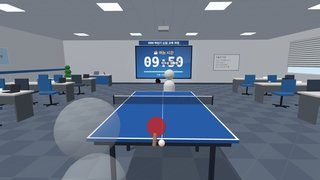
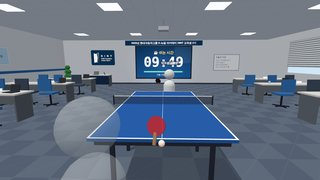
교육장에 HINT 꾸밈: 'K-뉴딜 아카데미 HINT 교육생 2기' 띠, HINT 로고·포스터, 남색 화면
Claude-Session: https://claude.ai/code/session_01JohB2zgj8E5rq1U69enmxb

diff --git a/src/arena-training.js b/src/arena-training.js
@@ -6,6 +6,14 @@ import { seeded, canvasTex, std, addBox, textTex, glowSprite } from './arena-kit
 
 const RX = 7.5, RZ = 9, RH = 3.2;
 const BREAK = 600; // 쉬는 시간 10분 (초)
+const NAVY = '#062a4d'; // HINT 로고 색
+// HINT 로고·포스터 그림 (public/arenas/, 사용자가 준 그림)
+const IMG = (import.meta.env?.BASE_URL || '/') + 'arenas/';
+function imgMat(file, transparent = false) {
+  const t = new THREE.TextureLoader().load(IMG + file);
+  t.colorSpace = THREE.SRGBColorSpace; t.anisotropy = 8;
+  return new THREE.MeshBasicMaterial({ map: t, transparent, alphaTest: transparent ? 0.05 : 0 });
+}
 
 function chair(col) {
   const g = new THREE.Group(), k = std(0x30343b, { metalness: 0.5, roughness: 0.4 }), c = std(col);
@@ -53,7 +61,7 @@ export function buildTraining() {
   let shown = -1;
   const drawTimer = (left) => {
     const m = Math.floor(left / 60), s = left % 60;
-    const gr = cg.createLinearGradient(0, 0, 0, H); gr.addColorStop(0, '#1d3f73'); gr.addColorStop(1, '#2f6fb0');
+    const gr = cg.createLinearGradient(0, 0, 0, H); gr.addColorStop(0, NAVY); gr.addColorStop(1, '#0f4a85');
     cg.fillStyle = gr; cg.fillRect(0, 0, W, H);
     cg.fillStyle = 'rgba(255,255,255,0.08)'; cg.beginPath(); cg.arc(W - 90, 80, 220, 0, 7); cg.fill();
     cg.textAlign = 'center'; cg.textBaseline = 'middle';
@@ -78,7 +86,7 @@ export function buildTraining() {
   // 강사 탁자 + 노트북 + 마이크
   const podium = new THREE.Group();
   addBox(podium, 1.6, 0.05, 0.7, std(0xdedede), 0, 0.75, 0);
-  addBox(podium, 1.56, 0.6, 0.04, std(0x2f6fb0), 0, 0.45, 0.32);
+  addBox(podium, 1.56, 0.6, 0.04, std(0x062a4d), 0, 0.45, 0.32);
   for (const x of [-0.75, 0.75]) addBox(podium, 0.04, 0.74, 0.66, std(0x8a929b, { metalness: 0.5 }), x, 0.37, 0);
   addBox(podium, 0.34, 0.02, 0.24, std(0x9aa0a6, { metalness: 0.6 }), -0.2, 0.785, 0);
   const lap = addBox(podium, 0.34, 0.22, 0.01, std(0x9aa0a6, { metalness: 0.6 }), -0.2, 0.89, -0.12); lap.rotation.x = -0.25;
@@ -95,8 +103,11 @@ export function buildTraining() {
   wb.position.set(4.6, 1.6, -RZ + 0.12); root.add(wb);
   addBox(root, 1.86, 1.16, 0.03, std(0xb8bec4, { metalness: 0.5 }), 4.6, 1.6, -RZ + 0.1);
   addBox(root, 1.8, 0.04, 0.1, std(0xb8bec4), 4.6, 1.02, -RZ + 0.16);
-  const banner = new THREE.Mesh(new THREE.PlaneGeometry(4.0, 0.36), new THREE.MeshBasicMaterial({ map: textTex('2026 하반기 신입 교육 과정', { w: 1024, h: 92, bg: '#1d3f73', color: '#ffffff', font: 'bold 52px sans-serif' }) }));
-  banner.position.set(0, 3.0, -RZ + 0.12); banner.scale.setScalar(0.9); root.add(banner);
+  const banner = new THREE.Mesh(new THREE.PlaneGeometry(5.6, 0.34), new THREE.MeshBasicMaterial({ map: textTex('2026년 현대자동차그룹 K-뉴딜 아카데미 HINT 교육생 2기', { w: 1600, h: 98, bg: NAVY, color: '#ffffff', font: 'bold 52px sans-serif' }) }));
+  banner.position.set(0, 2.99, -RZ + 0.12); root.add(banner);
+  // HINT 로고 (강사 탁자 위 벽)
+  const logo = new THREE.Mesh(new THREE.PlaneGeometry(1.75, 1.09), imgMat('hint-logo.png', true));
+  logo.position.set(-4.5, 1.95, -RZ + 0.12); root.add(logo);
 
   // ---------- 양옆: 앞(-z)을 보고 줄지어 놓인 긴 책상 + 의자 ----------
   const deskTop = std(0xeae6df), deskLeg = std(0x8a929b, { metalness: 0.5 });
@@ -147,8 +158,12 @@ export function buildTraining() {
   door.position.set(4.6, 0, RZ - 0.1); root.add(door);
   const exitS = new THREE.Mesh(new THREE.PlaneGeometry(0.5, 0.18), new THREE.MeshBasicMaterial({ map: textTex('🚪 비상구', { w: 256, h: 92, bg: '#14a44d', color: '#ffffff', font: 'bold 46px sans-serif' }) }));
   exitS.rotation.y = Math.PI; exitS.position.set(4.6, 2.5, RZ - 0.12); exitS.userData.noFocus = true; root.add(exitS);
-  const poster = new THREE.Mesh(new THREE.PlaneGeometry(1.4, 0.9), new THREE.MeshLambertMaterial({ map: textTex(['함께 성장하는', '우리 🌱'], { w: 512, h: 330, bg: '#fff6dc', color: '#2b3a4a', border: '#f2c230', font: 'bold 58px sans-serif' }) }));
-  poster.rotation.y = Math.PI; poster.position.set(2.0, 1.8, RZ - 0.12); root.add(poster);
+  // HINT 포스터 (액자)
+  const poster = new THREE.Mesh(new THREE.PlaneGeometry(1.68, 1.2), imgMat('hint-poster.jpg'));
+  poster.rotation.y = Math.PI; poster.position.set(2.0, 1.75, RZ - 0.14); root.add(poster);
+  addBox(root, 1.78, 1.3, 0.04, std(0xd0d4d8, { metalness: 0.5 }), 2.0, 1.75, RZ - 0.11);
+  const plogo = new THREE.Mesh(new THREE.PlaneGeometry(0.97, 0.6), imgMat('hint-logo.png', true));
+  plogo.rotation.y = Math.PI; plogo.position.set(-4.6, 1.6, RZ - 0.12); root.add(plogo);
   const clock = new THREE.Mesh(new THREE.CircleGeometry(0.22, 32), new THREE.MeshBasicMaterial({ color: 0xffffff }));
   clock.rotation.y = Math.PI; clock.position.set(-4.6, 2.5, RZ - 0.12); root.add(clock);
 

diff --git a/docs/dev/arenas.md b/docs/dev/arenas.md
@@ -28,6 +28,6 @@
 - '09시' 시리즈(출근길·퇴근길·소풍길)는 사용자의 다른 게임 '09시까지 출근하세요'(snow15700-cyber/until09_new, 공개 저장소)와 **아주 잘 맞아야** 한다. 그 게임의 `js/06-scene.js`(도시·은행나무·자연 배경)·`js/07-car-models.js`(차)를 참고해 같은 모양·색으로. 출근길은 탁구대 옆으로 4차선 도로(양 팀 모두 차가 보이게).
 - **일반 3종 (test, SQL `20_common_backgrounds.sql` 실행 필요)**: 사용자 요청(11/18) — 고급보다 단순하게, 체육관 정도 품질. `bg_classroom|training|parking`(grade common, 500코인), 시안 주소 `?bg=classroom|training|parking`, 목록 그림 `public/arenas/<id>.jpg`.
   - 교실 `arena-classroom.js`: -z 칠판('오늘은 탁구 수업 🏓', 11월 18일·주번)·급훈 '준비하시고, 스매시!'·태극기·시계·교탁·교사 책상, +z 게시판·색 사물함, +x 운동장 창문(커튼 살랑), -x 복도 미닫이문·'3학년 2반'. 책상은 네 구석으로 밀어 두고 의자를 거꾸로 올림. 천장 형광등·선풍기(돎).
-  - 교육장 `arena-training.js`: -z 큰 화면 '☕ 쉬는 시간' **10:00 타이머가 진짜로 1초씩 줄어듦**(0이 되면 다시 10:00, 1분 남으면 빨간 막대 + '곧 수업 시작해요!'). 화면은 캔버스를 1초마다 다시 그려서 `noBake`. 양옆 앞을 보는 긴 책상 6줄 × 2(노트북·교재·물병·종이컵, 파란 바퀴 의자), +z 다과 탁자·정수기·비상구 문, +x 블라인드 창, 강사 탁자·화이트보드·천장 프로젝터.
+  - 교육장 `arena-training.js`: **HINT 꾸밈(사용자 요청 11/18)**: 화면 위 띠 '2026년 현대자동차그룹 K-뉴딜 아카데미 HINT 교육생 2기', 강사 탁자 위 벽·뒷벽에 HINT 로고(`public/arenas/hint-logo.png`), 뒷벽 액자에 HINT 포스터(`hint-poster.jpg`, 사용자가 준 그림에서 QR만 지움), 타이머 화면·강사 탁자는 HINT 남색 `#062a4d`. -z 큰 화면 '☕ 쉬는 시간' **10:00 타이머가 진짜로 1초씩 줄어듦**(0이 되면 다시 10:00, 1분 남으면 빨간 막대 + '곧 수업 시작해요!'). 화면은 캔버스를 1초마다 다시 그려서 `noBake`. 양옆 앞을 보는 긴 책상 6줄 × 2(노트북·교재·물병·종이컵, 파란 바퀴 의자), +z 다과 탁자·정수기·비상구 문, +x 블라인드 창, 강사 탁자·화이트보드·천장 프로젝터.
   - 지하 주차장 `arena-parking.js`: 초록 에폭시 바닥 + 노란 주차선·멈춤턱, 기둥(B2 A-1~B-5, 아래 노랑·검정 띠), 세워 둔 차(09시 차 5종, 빛 번짐은 끔), 빨간 소방 배관·덕트, -z 출구 램프·'출구 EXIT'·높이 제한, +z 엘리베이터 홀·비상구·소화기, 반사경·콘. **몰입 연출: 랠리가 길어져 어두워질수록 탁구대에서 먼 형광등부터 한두 개씩 깜빡이며 꺼짐**(19개 중 탁구대 위 3개는 끝까지 켜짐, 점수 나면 형광등처럼 지지직 다시 켜짐). 평소에도 낡은 형광등 하나가 가끔 지지직.
     - 구현: 배경이 `setFocus(k)`를 가지면 `world.setFocus`가 같이 부른다(scene.js). 형광등은 `noFocus`·`noBake`, 꺼진 색은 선형 0.01대(0.1이면 sRGB로 회색처럼 보임).
